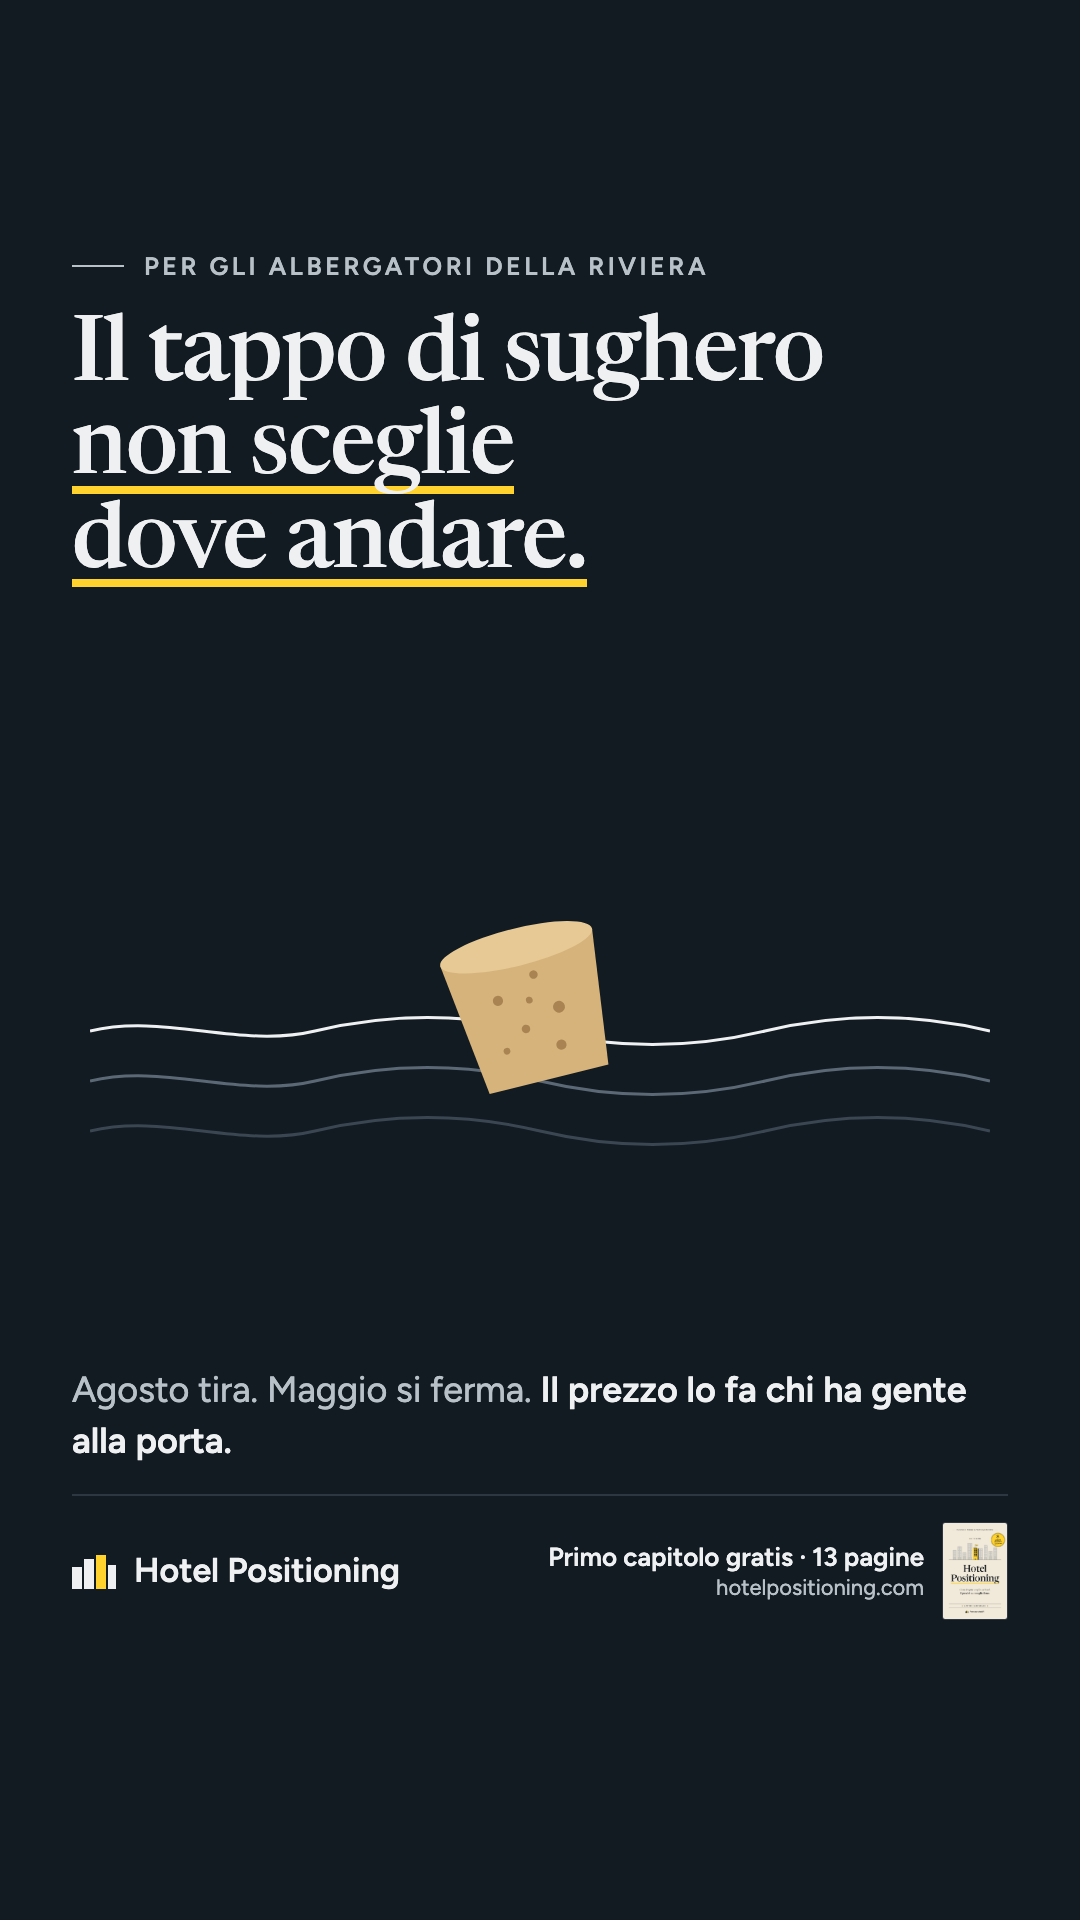
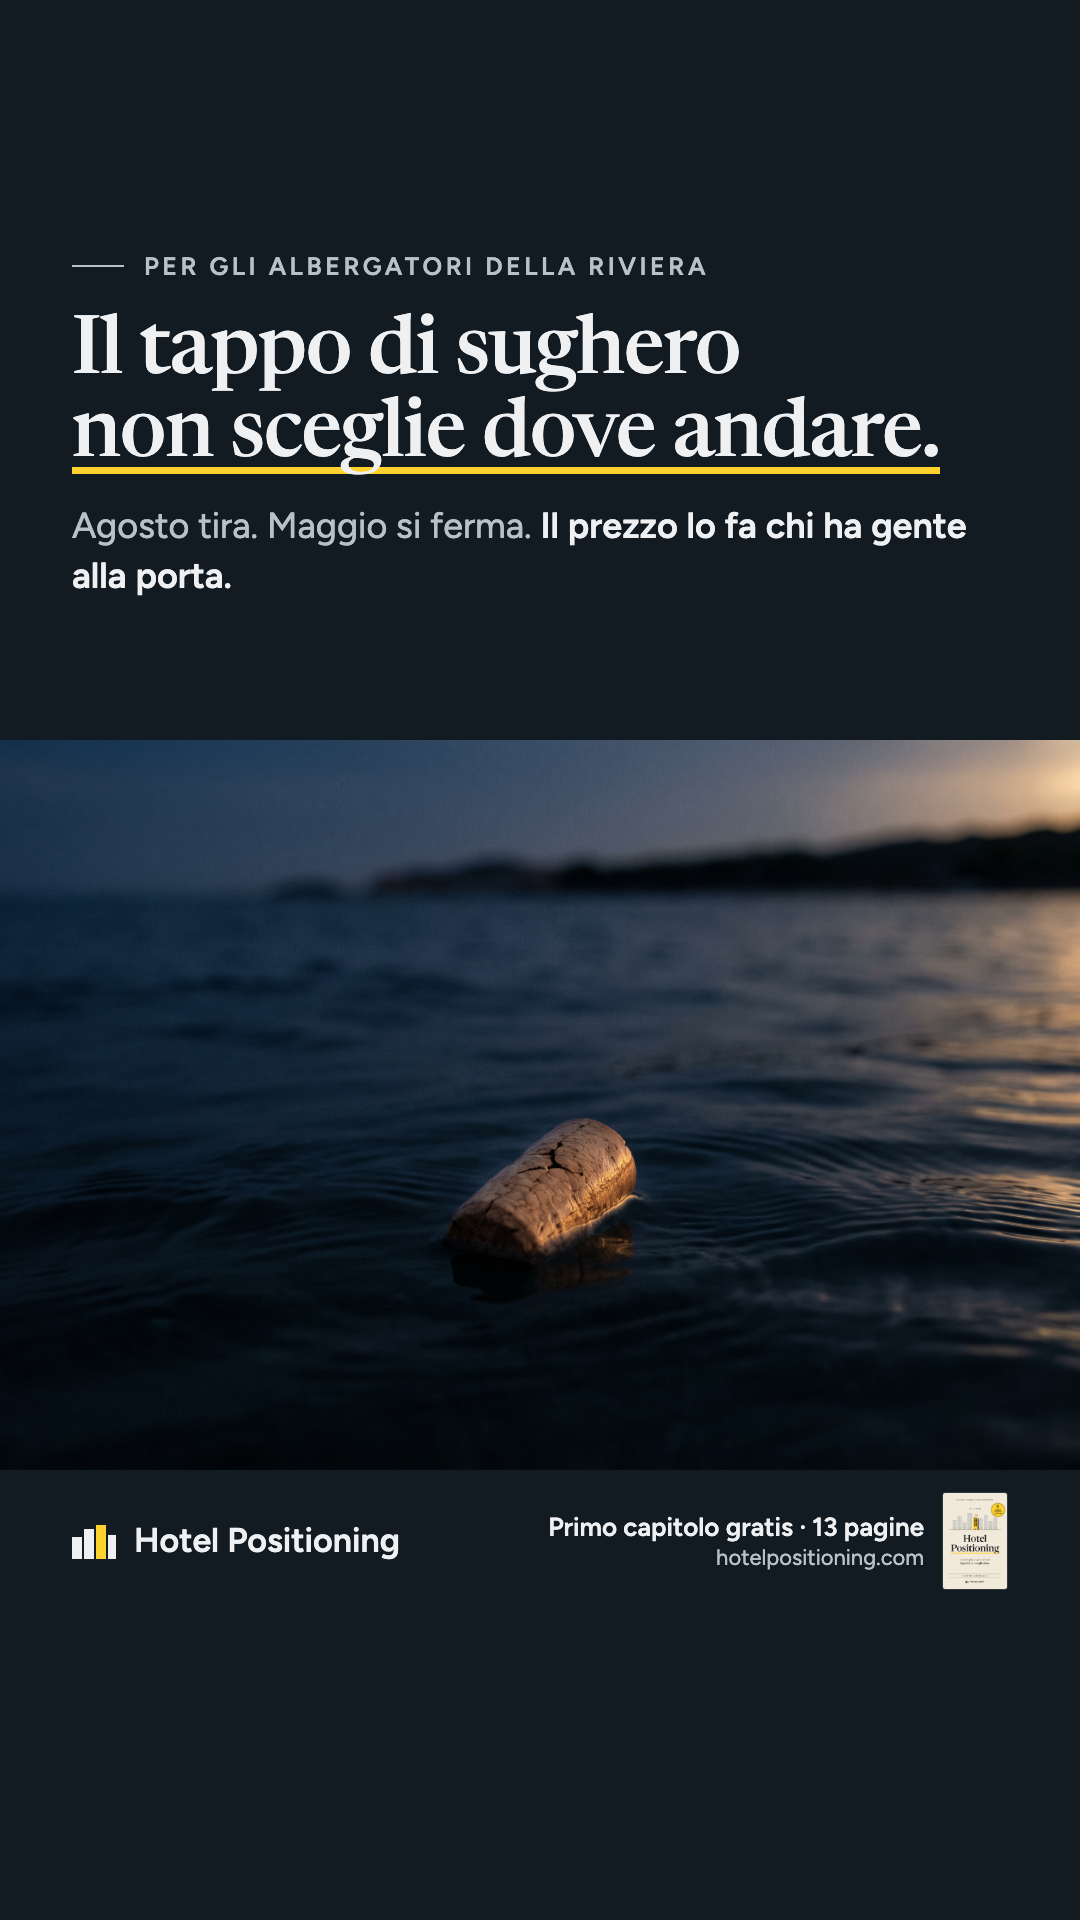
Annunci Riviera: T1 e T2 con foto Artlist (Nano Banana Pro) impaginate in CSS

diff --git a/materiali/ads-capitolo-riviera/genera_ads.py b/materiali/ads-capitolo-riviera/genera_ads.py
@@ -75,10 +75,12 @@ def serranda():
     return '<div class="shut"><div class="box"><i class="bar"></i><div class="slats"></div><div class="handle"></div><div class="glow"></div></div><div class="floor"></div></div>'
 
 ADS += [
- dict(id='T1', bg=NOTTE, h='Il tappo di sughero<br><em>non sceglie</em><br><em>dove andare.</em>', hs=90,
-      sub='Agosto tira. Maggio si ferma. <b>Il prezzo lo fa chi ha gente alla porta.</b>', vis=tappo),
- dict(id='T2', bg=CARTA, h='Dentro è tutto perfetto.<br><em>Da fuori si vede</em><br><em>la serranda.</em>', hs=84,
-      sub='<b>La qualità li fa tornare.</b> Non li fa arrivare.', vis=serranda),
+ dict(id='T1', bg=NOTTE, foto=True, img=b64(HERE / 'foto-artlist/tappo_b.png', 'image/png'), opos='60% 70%',
+      h='Il tappo di sughero<br><em>non sceglie dove andare.</em>', hs=80,
+      sub='Agosto tira. Maggio si ferma. <b>Il prezzo lo fa chi ha gente alla porta.</b>'),
+ dict(id='T2', bg=CARTA, foto=True, img=b64(HERE / 'foto-artlist/serranda_a.png', 'image/png'), opos='50% 60%',
+      h='Dentro è tutto perfetto.<br><em>Da fuori si vede la serranda.</em>', hs=72,
+      sub='<b>La qualità li fa tornare.</b> Non li fa arrivare.'),
 ]
 
 CSS = '''
@@ -191,7 +193,7 @@ def build(ad, W, H):
     foot = f'<div class="foot"><span class="logo"><span class="mark"></span>Hotel Positioning</span><div class="gift"><div><span>Primo capitolo gratis · 13 pagine</span><small>hotelpositioning.com</small></div><img src="{COVER}" alt=""></div></div>'
     if foto:
         body = f'''<div class="canvas fo"><div class="txt">{kick}<h1>{ad["h"]}</h1><p class="sub">{ad["sub"]}</p></div>
-<div class="photo"><img src="{FOTO}" alt=""></div>{foot}</div>'''
+<div class="photo"><img src="{ad.get('img', FOTO)}" alt="" style="object-position:{ad.get('opos', '50% ' + vals['OPOS'])}"></div>{foot}</div>'''
     else:
         body = f'''<div class="canvas"><div class="col">{kick}<h1>{ad["h"]}</h1><div class="vis">{ad["vis"]()}</div><p class="sub">{ad["sub"]}</p>{foot}</div></div>'''
     return f'<!DOCTYPE html><html lang="it"><head><meta charset="utf-8"><style>{css}</style></head><body class="{cls}">{body}</body></html>'
@@ -203,8 +205,8 @@ for ad in ADS:
         (OUT / f).write_text(build(ad, W, H))
         man['ads'].append({'id': f'{ad["id"]}_{suf}', 'file': f.replace('.html', '.png'), 'size': [W, H],
                            # foto reale a tutta larghezza: esce dai bordi a sinistra e a destra, e i suoi colori non sono in palette
-                           'route': 'A+foto' if ad.get('foto') else 'A', 'bleeds': 'LR' if ad.get('foto') else '',
+                           'route': ('hybrid' if ad['id'].startswith('T') else 'A+foto') if ad.get('foto') else 'A', 'bleeds': 'LR' if ad.get('foto') else '',
                            'route_reason': 'foto reale di Francesco con il libro' if ad.get('foto') else 'diagrammi in CSS, nessuna foto della struttura',
-                           'assets': ['newsreader.woff2', 'figtree.woff2', 'copertina-pdf.png'] + (['francesco-libro@2x.webp'] if ad.get('foto') else [])})
+                           'assets': ['newsreader.woff2', 'figtree.woff2', 'copertina-pdf.png'] + ((['foto-artlist (Nano Banana Pro, generata AI)'] if ad['id'].startswith('T') else ['francesco-libro@2x.webp']) if ad.get('foto') else [])})
 (OUT / 'manifest.json').write_text(json.dumps(man, indent=1, ensure_ascii=False))
 print(len(man['ads']), 'html')
